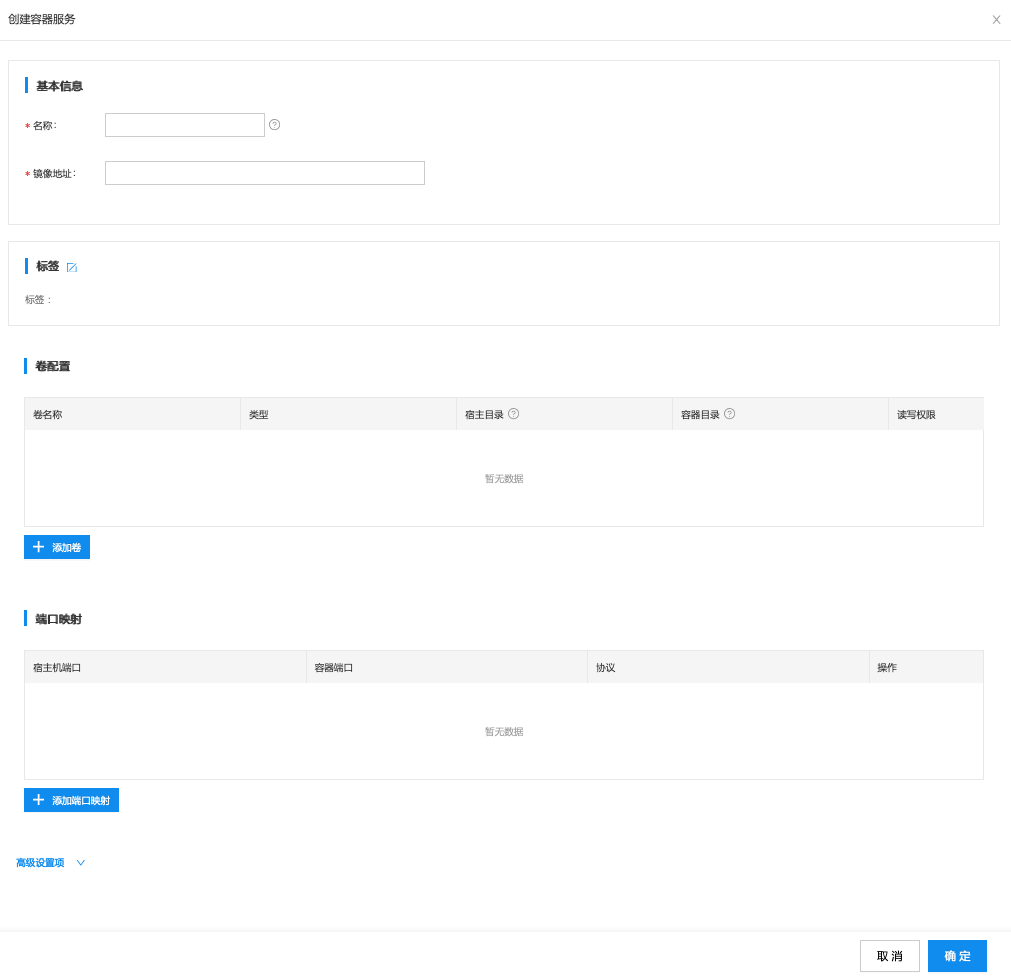
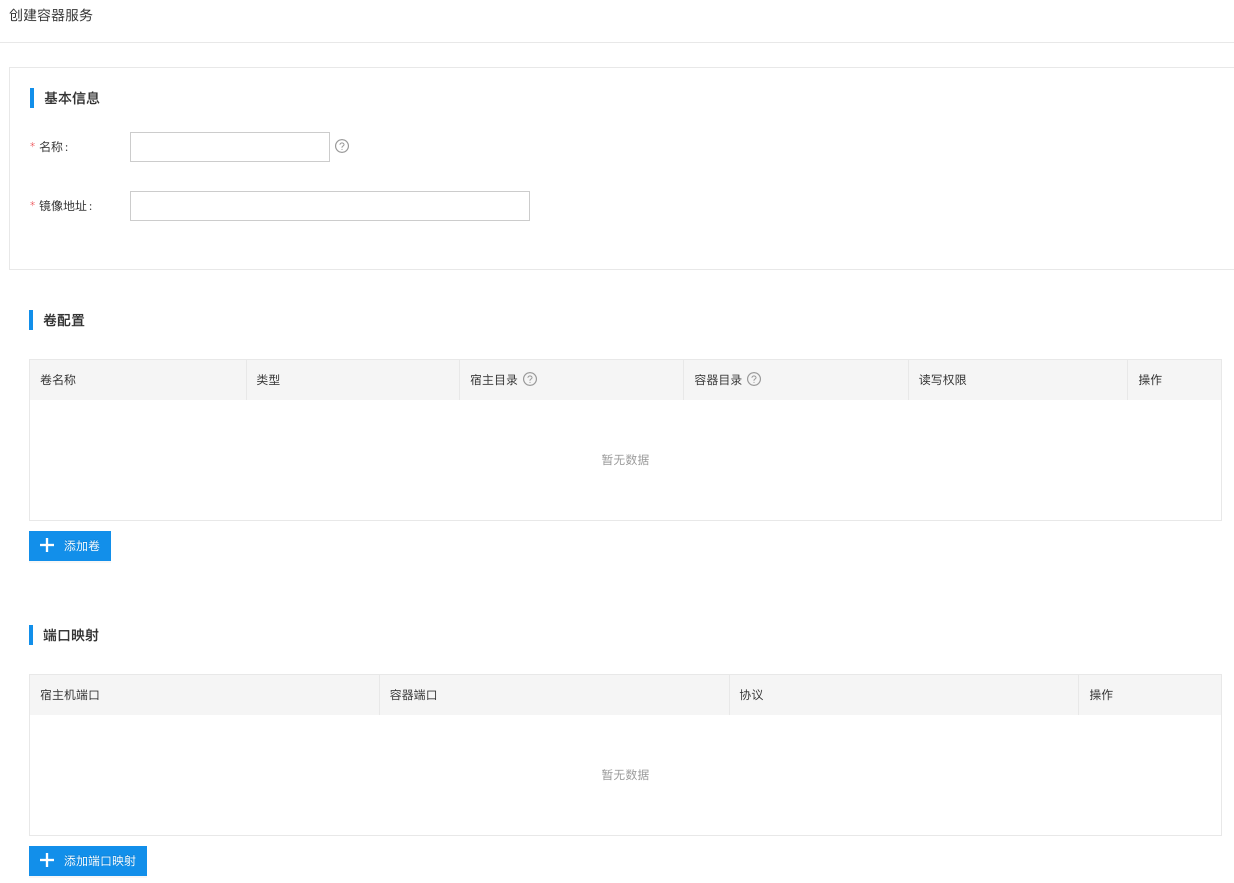
创建容器服务 配图修改(去除标签的页面) 错别字

diff --git a/docs/practice/Application-Deployment-Practice.md b/docs/practice/Application-Deployment-Practice.md
@@ -41,7 +41,7 @@ allow_anonymous true
 
 ## 创建应用
 
-创建应用包含有4个步骤，第一步基本信息是对添加应用配置名字与标签等基本信息；第二步是对应用所包含的服务模块进行配置，不仅包括服务启动的端口，副本数量等参数，也包括服务所使用的配置文件，镜像仓库凭证等；第三步是对应匹配的标签进行配置（需要注意匹配标签与第一步所配置的标签并不相同），通过配置与期望部署节点相同的匹配标签项，可以将应用与节点进行匹配，从而达到将应用部署到期望边缘设备的目标；第四部是对应用创建进行确认，完成应用的创建。
+创建应用包含有4个步骤，第一步基本信息是对添加应用配置名字与标签等基本信息；第二步是对应用所包含的服务模块进行配置，不仅包括服务启动的端口，副本数量等参数，也包括服务所使用的配置文件，镜像仓库凭证等；第三步是对应匹配的标签进行配置（需要注意匹配标签与第一步所配置的标签并不相同），通过配置与期望部署节点相同的匹配标签项，可以将应用与节点进行匹配，从而达到将应用部署到期望边缘设备的目标；第四步是对应用创建进行确认，完成应用的创建。
 
 依次点击 **应用部署 > 创建应用**。在添加应用的第1步基本信息中输入应用名称，描述信息，添加应用标签（可选），然后点击下一步
 
@@ -51,7 +51,7 @@ allow_anonymous true
 
 ![应用添加服务1](../images/practice/application-deployment/06-application-add-service-1.png)
 
-在容器创建页面对应用进行配置，配置服务名称，镜像地址，服务标签（可选）
+在创建容器服务页面对应用进行配置，配置服务名称、镜像地址
 
 ![应用添加服务2](../images/practice/application-deployment/07-application-add-service-2.png)
 

diff --git a/docs/quickstart/Application-Deployment.md b/docs/quickstart/Application-Deployment.md
@@ -52,7 +52,7 @@
 * 【名称】表示服务的名称，不可为空。同一个应用中的服务名称不可重复，包含相同服务名称的不同应用部署到同一个节点会导致其中一个部署报错
 * 【镜像地址】表示服务对应的镜像地址，不可为空。该地址应该填写在边缘节点（设备）上可以通过docker拉取的镜像地址
 * 【卷配置】表示容器挂载的存储卷信息，支持hostPath、配置项和密文三种卷的挂载。 hostPath：挂载宿主机目录到容器目录；配置项：配置管理的配置信息；密文：配置管理里的密文信息。配置项创建在[这里](./Configuration-Management.md)， 密文创建在[这里](./Configuration-Management.md)
-
+* 【端口映射】表示容器内与宿主机的端口映射，支持TCP和UDP两种端口映射
 
 点击**添加卷**进行卷配置
 
@@ -62,7 +62,7 @@
 
 ![08-create-container-app-port.png](../images/quickstart/application-deployment/08-create-container-app-port.png)
 
-如果还需要更多配置，点击 **高级设置项** 进入配置设置
+如果还需要更多配置，点击页面最下方的 **高级设置项** 进入配置设置
 
 ![09-create-container-app-more.png](../images/quickstart/application-deployment/09-create-container-app-more.png)
 
@@ -136,6 +136,8 @@
 * 【函数配置项】表示选择配置管理里预先配置的函数，函数配置在[这里](./Configuration-Management.md)创建
 * 【运行时】表示需要选择的函数运行时环境，目前运行时环境支持python3，nodejs10和sql
 * 【函数列表】表示设置函数配置项里选择的函数的函数调用入口，支持多个函数调用
+
+如果还需要更多配置，点击页面最下方的 **高级设置项** 进入配置设置
 
 填写**高级设置项**
 
